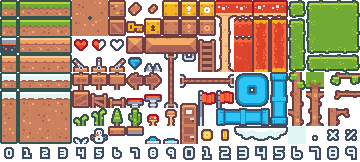
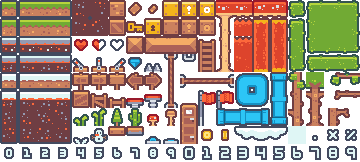
add ash ground to tilemaps

Changed region(s): [[0.0, 0.0, 0.3056, 0.463], [0.0, 0.5864, 0.2139, 0.8951]]

diff --git a/README.md b/README.md
@@ -57,8 +57,8 @@ Platformer, godot
 - [x] create second tileset w/ lava
 - [x] add lava to test map
 - [x] touching lava restarts the scene
-- [ ] add dead earth to 2nd tile set
-- [ ] add dead earth to test map
+- [x] add dead earth to 2nd tile set
+- [x] add dead earth to test map
 - [ ] add mechanic to put on the ring
 - [ ] make it so the ring adds a funky shaker to the screen
 - [ ] make it so putting on the ring adds or removes collisiosn and blocks
